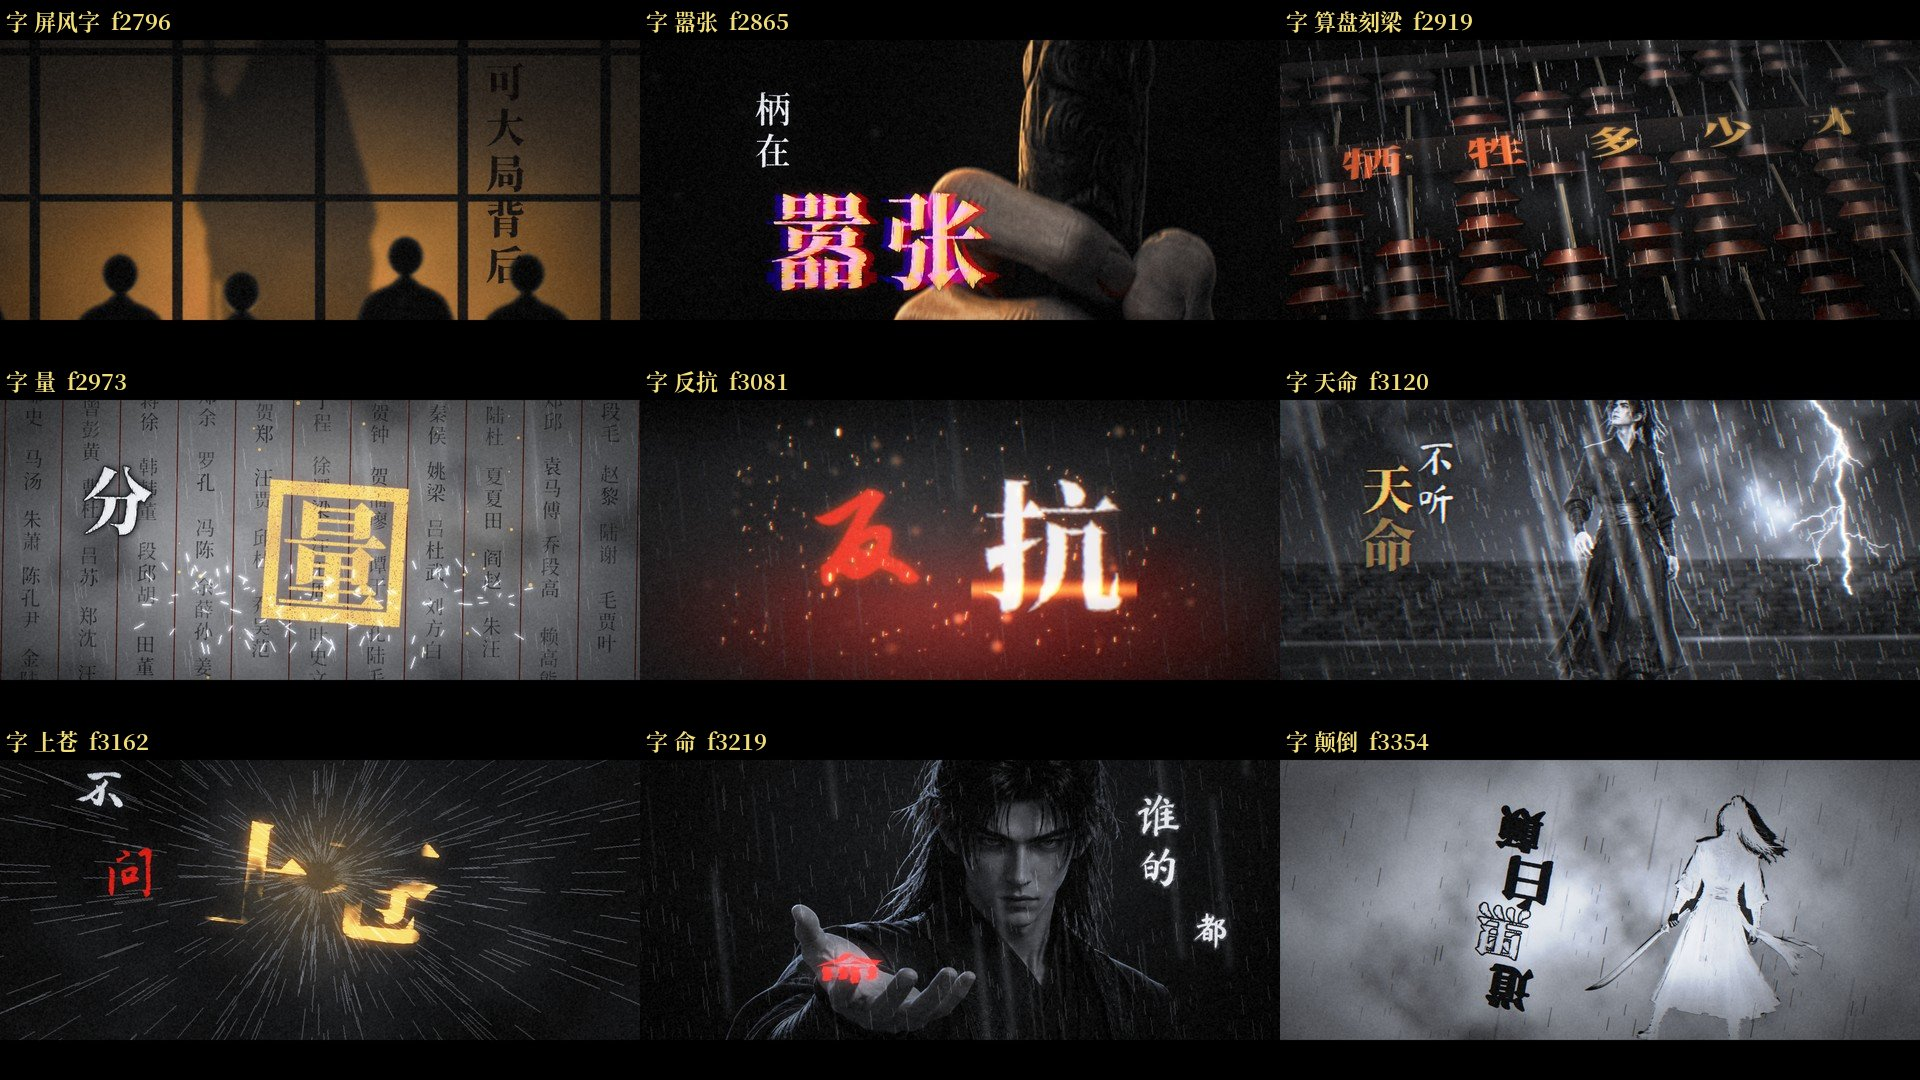
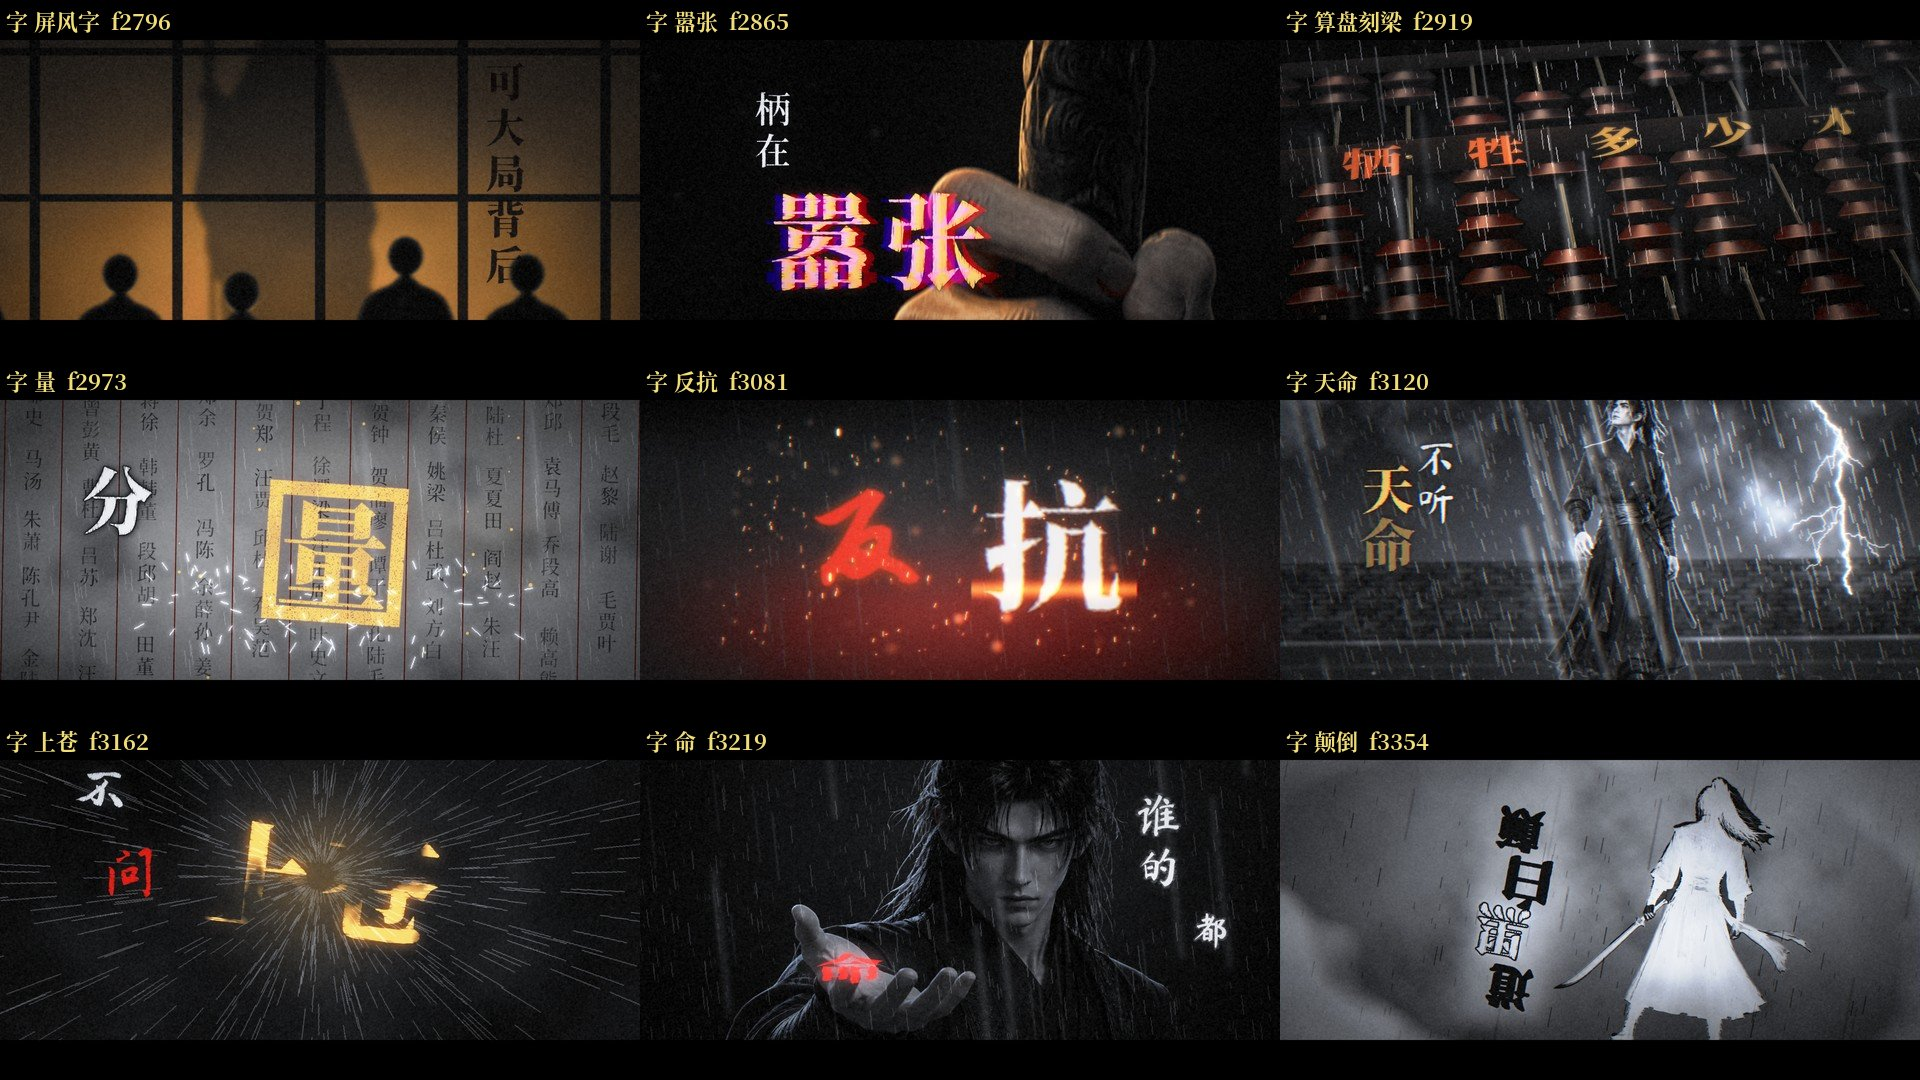
[B组] V20 倒影天提亮、人物放大加轮廓光（旋转那拍不再糊黑）；重出 v4 联系表/keys 及分页

Changed region(s): [[0.6562, 0.7028, 1.0, 0.9778]]

diff --git a/units/sec_b_verse2.py b/units/sec_b_verse2.py
@@ -1093,7 +1093,7 @@ class V20(Shot):
     def __init__(self):
         self.sp = spr('back_stand')
         x, y = K.grid()
-        sk = night_sky(6501, top=(0.10, 0.11, 0.13), bot=(0.03, 0.035, 0.045), horizon=1.0)     # 倒影里的天（倒置：亮在下）
+        sk = night_sky(6501, top=(0.24, 0.25, 0.29), bot=(0.05, 0.055, 0.07), horizon=1.0)   # 第四棒：倒影天提亮，人物剪影读得出     # 倒影里的天（倒置：亮在下）
         self.sky = sk[::-1].copy()
         mud = (0.015 + 0.03 * cv2.resize(K.fbm(H // 2, W // 2, 6502, 9, 6), (W, H)))[..., None] * np.ones(3, np.float32)
         nz = cv2.resize(K.fbm(H // 8, W // 8, 6503, 3, 4), (W, H))
@@ -1107,7 +1107,7 @@ class V20(Shot):
     def scene(self, t):
         x, y = K.grid()
         refl = self.sky.copy()
-        refl, _ = put(refl, self.sp, t, 720, (640, 900), look=None, rim=dict(col=(0.7, 0.8, 1.0), amt=2.0, dir=(0.0, 1.0)), wind_amp=8,
+        refl, _ = put(refl, self.sp, t, 780, (700, 920), look=None, rim=dict(col=(0.75, 0.85, 1.0), amt=3.2, dir=(0.0, 1.0)), wind_amp=8,
                       shade=None, wrap=0.2)
         refl = refl[::-1] if False else refl
         # 倒影：人物头朝下（脚在上沿）
